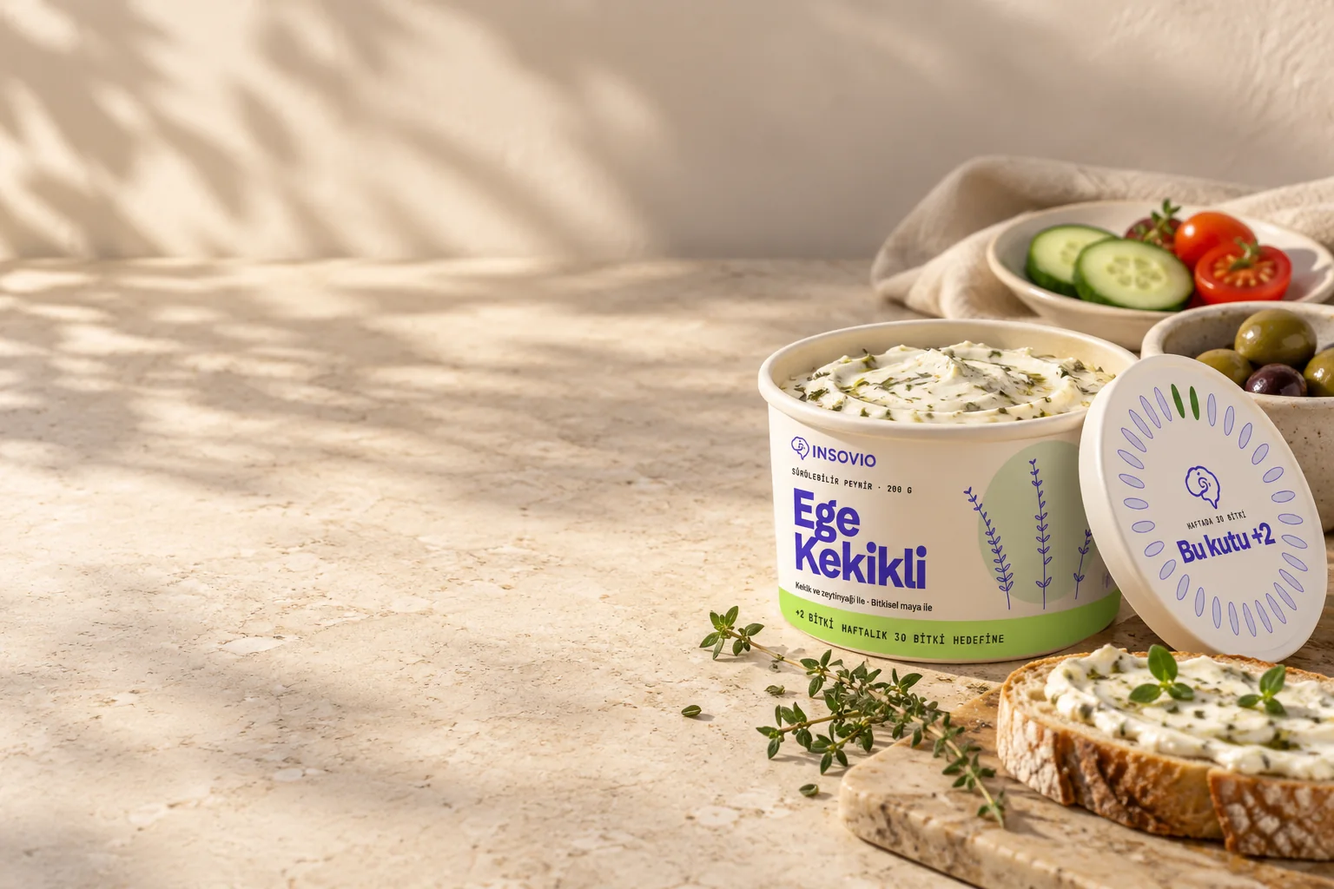
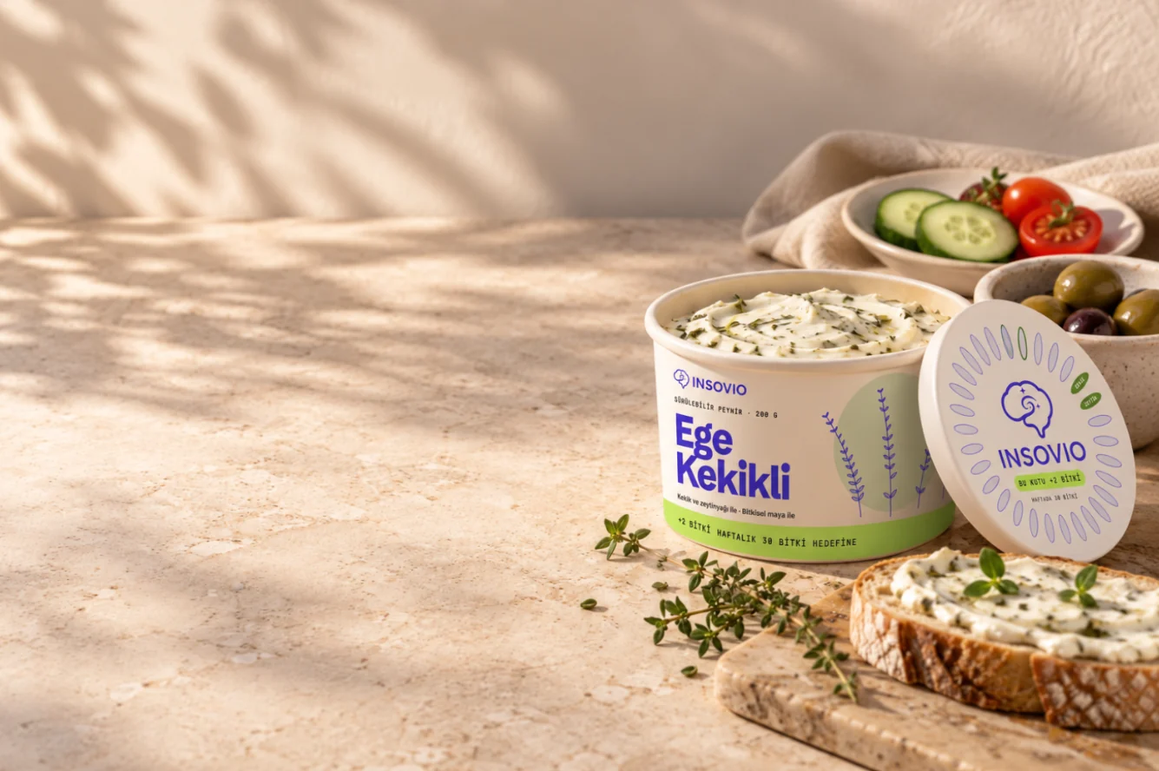
Bitki çarkı bölümü eklendi, giriş görselinde yeni kapak
Claude-Session: https://claude.ai/code/session_01Wy1JEM3Zr18T6Qt79KhScu

diff --git a/index.html b/index.html
@@ -344,6 +344,18 @@ p { margin: 0; }
 @media (max-width: 760px) { .inspo { grid-template-columns: 1fr; } }
 
 /* Process */
+.series-wrap { padding-block: clamp(56px, 7vw, 96px) 0; }
+.series { display: grid; grid-template-columns: minmax(0, 1fr) minmax(0, 1fr); gap: clamp(32px, 5vw, 64px); align-items: center; }
+.series-copy { display: grid; gap: 14px; }
+.series-copy h3 { font-size: var(--s-xl); font-weight: 800; letter-spacing: -.03em; line-height: 1; }
+.series-copy p { color: var(--muted); max-width: 52ch; }
+.series-note { font-size: var(--s-sm); }
+.series-wheel { position: relative; width: 100%; max-width: 520px; aspect-ratio: 1 / 1; justify-self: center; }
+.series-svg, .series-svg svg { width: 100%; height: 100%; display: block; }
+.series-center { position: absolute; inset: 0; display: grid; place-content: center; justify-items: center; text-align: center; pointer-events: none; }
+.series-center b { font-size: clamp(3rem, 2rem + 4vw, 5.5rem); font-weight: 800; letter-spacing: -.04em; line-height: 1; color: var(--violet); }
+.series-center span { font: 500 .75rem/1.3 var(--f-mono); letter-spacing: .1em; text-transform: uppercase; color: var(--muted); }
+@media (max-width: 880px) { .series { grid-template-columns: 1fr; } }
 .process-wrap { padding-block: clamp(56px, 7vw, 96px) 0; }
 .process-head { display: grid; gap: 8px; margin-bottom: 24px; }
 .process-head p { color: var(--muted); }
@@ -499,7 +511,7 @@ p { margin: 0; }
   <section class="hero">
     <div class="wrap">
       <div class="hero-card">
-        <img class="hero-bg" src="img/konsept-giris.webp" width="1536" height="1024" alt="Güneşli traverten tezgahta açık INSOVIO Ege Kekikli Sürülebilir Peynir kasesi, kapağı yanında; peynir sürülmüş ekmek, kekik, zeytin ve domates salatalık" data-i18n-attr="alt:alt.hero">
+        <img class="hero-bg" src="img/konsept-giris.webp" width="1335" height="888" alt="Güneşli traverten tezgahta açık INSOVIO Ege Kekikli Sürülebilir Peynir kasesi, kapağı yanında; peynir sürülmüş ekmek, kekik, zeytin ve domates salatalık" data-i18n-attr="alt:alt.hero">
         <span class="concept-tag" data-i18n="concept">Konsept görsel</span>
         <a class="promo" href="#etkinlik">
           <img src="img/etkinlik.webp" width="1007" height="941" alt="">
@@ -691,6 +703,20 @@ p { margin: 0; }
           <b>Avokado Dürüm</b>
           <a href="https://www.instagram.com/reel/DXUqoRvDTE2/" target="_blank" rel="noopener" data-i18n="ins.l">Videoyu Instagram'da izle →</a>
         </blockquote>
+      </div>
+    </div>
+    <div class="wrap series-wrap">
+      <div class="series">
+        <div class="series-copy">
+          <span class="eyebrow" data-i18n="se.e">Tüm seri · Bitki çarkı</span>
+          <h3 data-i18n="se.h">Her kutu çarkın bir parçası</h3>
+          <p data-i18n="se.p">Kapaklarımızdaki çarkın 30 yaprağının her biri hep aynı bitkiyi temsil ediyor. Her ürün kendi bitkilerinin yaprağını dolduruyor; peynirlerimiz ve lavaşlarımız bir araya geldiğinde haftalık 30 bitkinin tamamı karşılanıyor.</p>
+          <p class="series-note" data-i18n="se.n">Aynı türden bitkiler bir kez sayılır. Örneğin kekik hem Ege Kekikli'de hem Za'atar'da aynı yapraktır.</p>
+        </div>
+        <div class="series-wheel">
+          <div class="series-svg" data-i18n="se.svg"><svg role="img" aria-hidden="true" class="series-svg" viewBox="0 0 600 600"><ellipse cx="323.6" cy="75.2" rx="40" ry="13" transform="rotate(-84 323.6 75.2)" fill="#C9A227" stroke="#C9A227" stroke-width="0"/><text x="323.6" y="75.2" transform="rotate(-84 323.6 75.2)" text-anchor="middle" dominant-baseline="central" font-family="JetBrains Mono, ui-monospace, Menlo, monospace" font-weight="500" font-size="11" letter-spacing=".4" fill="#17123A">DEREOTU</text><ellipse cx="369.8" cy="85.1" rx="40" ry="13" transform="rotate(-72 369.8 85.1)" fill="#C9A227" stroke="#C9A227" stroke-width="0"/><text x="369.8" y="85.1" transform="rotate(-72 369.8 85.1)" text-anchor="middle" dominant-baseline="central" font-family="JetBrains Mono, ui-monospace, Menlo, monospace" font-weight="500" font-size="11" letter-spacing=".4" fill="#17123A">LİMON</text><ellipse cx="413.0" cy="104.3" rx="40" ry="13" transform="rotate(-60 413.0 104.3)" fill="#E58A3A" stroke="#E58A3A" stroke-width="0"/><text x="413.0" y="104.3" transform="rotate(-60 413.0 104.3)" text-anchor="middle" dominant-baseline="central" font-family="JetBrains Mono, ui-monospace, Menlo, monospace" font-weight="500" font-size="11" letter-spacing=".4" fill="#17123A">MERCİMEK</text><ellipse cx="451.2" cy="132.0" rx="40" ry="13" transform="rotate(-48 451.2 132.0)" fill="#E58A3A" stroke="#E58A3A" stroke-width="0"/><text x="451.2" y="132.0" transform="rotate(-48 451.2 132.0)" text-anchor="middle" dominant-baseline="central" font-family="JetBrains Mono, ui-monospace, Menlo, monospace" font-weight="500" font-size="11" letter-spacing=".4" fill="#17123A">KİMYON</text><ellipse cx="482.8" cy="167.2" rx="40" ry="13" transform="rotate(-36 482.8 167.2)" fill="#6E8B3D" stroke="#6E8B3D" stroke-width="0"/><text x="482.8" y="167.2" transform="rotate(-36 482.8 167.2)" text-anchor="middle" dominant-baseline="central" font-family="JetBrains Mono, ui-monospace, Menlo, monospace" font-weight="500" font-size="11" letter-spacing=".4" fill="#FFFFFF">KEKİK</text><ellipse cx="506.5" cy="208.1" rx="40" ry="13" transform="rotate(-24 506.5 208.1)" fill="#6E8B3D" stroke="#6E8B3D" stroke-width="0"/><text x="506.5" y="208.1" transform="rotate(-24 506.5 208.1)" text-anchor="middle" dominant-baseline="central" font-family="JetBrains Mono, ui-monospace, Menlo, monospace" font-weight="500" font-size="11" letter-spacing=".4" fill="#FFFFFF">ZEYTİN</text><ellipse cx="521.1" cy="253.0" rx="40" ry="13" transform="rotate(-12 521.1 253.0)" fill="#B5523B" stroke="#B5523B" stroke-width="0"/><text x="521.1" y="253.0" transform="rotate(-12 521.1 253.0)" text-anchor="middle" dominant-baseline="central" font-family="JetBrains Mono, ui-monospace, Menlo, monospace" font-weight="500" font-size="11" letter-spacing=".4" fill="#FFFFFF">SUMAK</text><ellipse cx="526.0" cy="300.0" rx="40" ry="13" transform="rotate(0 526.0 300.0)" fill="#B5523B" stroke="#B5523B" stroke-width="0"/><text x="526.0" y="300.0" transform="rotate(0 526.0 300.0)" text-anchor="middle" dominant-baseline="central" font-family="JetBrains Mono, ui-monospace, Menlo, monospace" font-weight="500" font-size="11" letter-spacing=".4" fill="#FFFFFF">SUSAM</text><ellipse cx="521.1" cy="347.0" rx="40" ry="13" transform="rotate(12 521.1 347.0)" fill="#D2483A" stroke="#D2483A" stroke-width="0"/><text x="521.1" y="347.0" transform="rotate(12 521.1 347.0)" text-anchor="middle" dominant-baseline="central" font-family="JetBrains Mono, ui-monospace, Menlo, monospace" font-weight="500" font-size="11" letter-spacing=".4" fill="#FFFFFF">DOMATES</text><ellipse cx="506.5" cy="391.9" rx="40" ry="13" transform="rotate(24 506.5 391.9)" fill="#D2483A" stroke="#D2483A" stroke-width="0"/><text x="506.5" y="391.9" transform="rotate(24 506.5 391.9)" text-anchor="middle" dominant-baseline="central" font-family="JetBrains Mono, ui-monospace, Menlo, monospace" font-weight="500" font-size="11" letter-spacing=".4" fill="#FFFFFF">FESLEĞEN</text><ellipse cx="482.8" cy="432.8" rx="40" ry="13" transform="rotate(36 482.8 432.8)" fill="#A83232" stroke="#A83232" stroke-width="0"/><text x="482.8" y="432.8" transform="rotate(36 482.8 432.8)" text-anchor="middle" dominant-baseline="central" font-family="JetBrains Mono, ui-monospace, Menlo, monospace" font-weight="500" font-size="11" letter-spacing=".4" fill="#FFFFFF">İSOT</text><ellipse cx="451.2" cy="468.0" rx="40" ry="13" transform="rotate(48 451.2 468.0)" fill="#A83232" stroke="#A83232" stroke-width="0"/><text x="451.2" y="468.0" transform="rotate(48 451.2 468.0)" text-anchor="middle" dominant-baseline="central" font-family="JetBrains Mono, ui-monospace, Menlo, monospace" font-weight="500" font-size="11" letter-spacing=".4" fill="#FFFFFF">CEVİZ</text><ellipse cx="413.0" cy="495.7" rx="40" ry="13" transform="rotate(60 413.0 495.7)" fill="#8E86A8" stroke="#8E86A8" stroke-width="0"/><text x="413.0" y="495.7" transform="rotate(60 413.0 495.7)" text-anchor="middle" dominant-baseline="central" font-family="JetBrains Mono, ui-monospace, Menlo, monospace" font-weight="500" font-size="11" letter-spacing=".4" fill="#17123A">ÇÖREK OTU</text><ellipse cx="369.8" cy="514.9" rx="40" ry="13" transform="rotate(72 369.8 514.9)" fill="#8E86A8" stroke="#8E86A8" stroke-width="0"/><text x="369.8" y="514.9" transform="rotate(72 369.8 514.9)" text-anchor="middle" dominant-baseline="central" font-family="JetBrains Mono, ui-monospace, Menlo, monospace" font-weight="500" font-size="11" letter-spacing=".4" fill="#17123A">TAZE SOĞAN</text><ellipse cx="323.6" cy="524.8" rx="40" ry="13" transform="rotate(84 323.6 524.8)" fill="#4E8F3A" stroke="#4E8F3A" stroke-width="0"/><text x="323.6" y="524.8" transform="rotate(84 323.6 524.8)" text-anchor="middle" dominant-baseline="central" font-family="JetBrains Mono, ui-monospace, Menlo, monospace" font-weight="500" font-size="11" letter-spacing=".4" fill="#FFFFFF">NOHUT</text><ellipse cx="276.4" cy="524.8" rx="40" ry="13" transform="rotate(96 276.4 524.8)" fill="#4E8F3A" stroke="#4E8F3A" stroke-width="0"/><text x="276.4" y="524.8" transform="rotate(276 276.4 524.8)" text-anchor="middle" dominant-baseline="central" font-family="JetBrains Mono, ui-monospace, Menlo, monospace" font-weight="500" font-size="11" letter-spacing=".4" fill="#FFFFFF">ISPANAK</text><ellipse cx="230.2" cy="514.9" rx="40" ry="13" transform="rotate(108 230.2 514.9)" fill="#9B2D5C" stroke="#9B2D5C" stroke-width="0"/><text x="230.2" y="514.9" transform="rotate(288 230.2 514.9)" text-anchor="middle" dominant-baseline="central" font-family="JetBrains Mono, ui-monospace, Menlo, monospace" font-weight="500" font-size="11" letter-spacing=".4" fill="#FFFFFF">PANCAR</text><ellipse cx="187.0" cy="495.7" rx="40" ry="13" transform="rotate(120 187.0 495.7)" fill="#5E8C31" stroke="#5E8C31" stroke-width="0"/><text x="187.0" y="495.7" transform="rotate(300 187.0 495.7)" text-anchor="middle" dominant-baseline="central" font-family="JetBrains Mono, ui-monospace, Menlo, monospace" font-weight="500" font-size="11" letter-spacing=".4" fill="#FFFFFF">AVOKADO</text><ellipse cx="148.8" cy="468.0" rx="40" ry="13" transform="rotate(132 148.8 468.0)" fill="#7FAF5A" stroke="#7FAF5A" stroke-width="0"/><text x="148.8" y="468.0" transform="rotate(312 148.8 468.0)" text-anchor="middle" dominant-baseline="central" font-family="JetBrains Mono, ui-monospace, Menlo, monospace" font-weight="500" font-size="11" letter-spacing=".4" fill="#17123A">KABAK</text><ellipse cx="117.2" cy="432.8" rx="40" ry="13" transform="rotate(144 117.2 432.8)" fill="#7FAF5A" stroke="#7FAF5A" stroke-width="0"/><text x="117.2" y="432.8" transform="rotate(324 117.2 432.8)" text-anchor="middle" dominant-baseline="central" font-family="JetBrains Mono, ui-monospace, Menlo, monospace" font-weight="500" font-size="11" letter-spacing=".4" fill="#17123A">KARABİBER</text><ellipse cx="93.5" cy="391.9" rx="40" ry="13" transform="rotate(156 93.5 391.9)" fill="#8A6A3B" stroke="#8A6A3B" stroke-width="0"/><text x="93.5" y="391.9" transform="rotate(336 93.5 391.9)" text-anchor="middle" dominant-baseline="central" font-family="JetBrains Mono, ui-monospace, Menlo, monospace" font-weight="500" font-size="11" letter-spacing=".4" fill="#FFFFFF">KARABUĞDAY</text><ellipse cx="78.9" cy="347.0" rx="40" ry="13" transform="rotate(168 78.9 347.0)" fill="#3E9A6B" stroke="#3E9A6B" stroke-width="0"/><text x="78.9" y="347.0" transform="rotate(348 78.9 347.0)" text-anchor="middle" dominant-baseline="central" font-family="JetBrains Mono, ui-monospace, Menlo, monospace" font-weight="500" font-size="11" letter-spacing=".4" fill="#FFFFFF">NANE</text><ellipse cx="74.0" cy="300.0" rx="40" ry="13" transform="rotate(180 74.0 300.0)" fill="#3E9A6B" stroke="#3E9A6B" stroke-width="0"/><text x="74.0" y="300.0" transform="rotate(360 74.0 300.0)" text-anchor="middle" dominant-baseline="central" font-family="JetBrains Mono, ui-monospace, Menlo, monospace" font-weight="500" font-size="11" letter-spacing=".4" fill="#FFFFFF">MAYDANOZ</text><ellipse cx="78.9" cy="253.0" rx="40" ry="13" transform="rotate(192 78.9 253.0)" fill="#3E9A6B" stroke="#3E9A6B" stroke-width="0"/><text x="78.9" y="253.0" transform="rotate(372 78.9 253.0)" text-anchor="middle" dominant-baseline="central" font-family="JetBrains Mono, ui-monospace, Menlo, monospace" font-weight="500" font-size="11" letter-spacing=".4" fill="#FFFFFF">SARIMSAK</text><ellipse cx="93.5" cy="208.1" rx="40" ry="13" transform="rotate(204 93.5 208.1)" fill="#7A3E5C" stroke="#7A3E5C" stroke-width="0"/><text x="93.5" y="208.1" transform="rotate(384 93.5 208.1)" text-anchor="middle" dominant-baseline="central" font-family="JetBrains Mono, ui-monospace, Menlo, monospace" font-weight="500" font-size="11" letter-spacing=".4" fill="#FFFFFF">İNCİR</text><ellipse cx="117.2" cy="167.2" rx="40" ry="13" transform="rotate(216 117.2 167.2)" fill="#5B7A5A" stroke="#5B7A5A" stroke-width="0"/><text x="117.2" y="167.2" transform="rotate(396 117.2 167.2)" text-anchor="middle" dominant-baseline="central" font-family="JetBrains Mono, ui-monospace, Menlo, monospace" font-weight="500" font-size="11" letter-spacing=".4" fill="#FFFFFF">BİBERİYE</text><ellipse cx="148.8" cy="132.0" rx="40" ry="13" transform="rotate(228 148.8 132.0)" fill="#8A6A3B" stroke="#8A6A3B" stroke-width="0"/><text x="148.8" y="132.0" transform="rotate(408 148.8 132.0)" text-anchor="middle" dominant-baseline="central" font-family="JetBrains Mono, ui-monospace, Menlo, monospace" font-weight="500" font-size="11" letter-spacing=".4" fill="#FFFFFF">KETEN</text><ellipse cx="187.0" cy="104.3" rx="40" ry="13" transform="rotate(240 187.0 104.3)" fill="#8A6A3B" stroke="#8A6A3B" stroke-width="0"/><text x="187.0" y="104.3" transform="rotate(420 187.0 104.3)" text-anchor="middle" dominant-baseline="central" font-family="JetBrains Mono, ui-monospace, Menlo, monospace" font-weight="500" font-size="11" letter-spacing=".4" fill="#FFFFFF">CHİA</text><ellipse cx="230.2" cy="85.1" rx="40" ry="13" transform="rotate(252 230.2 85.1)" fill="#8A6A3B" stroke="#8A6A3B" stroke-width="0"/><text x="230.2" y="85.1" transform="rotate(432 230.2 85.1)" text-anchor="middle" dominant-baseline="central" font-family="JetBrains Mono, ui-monospace, Menlo, monospace" font-weight="500" font-size="9.459999999999999" letter-spacing=".4" fill="#FFFFFF">AYÇEKİRDEĞİ</text><ellipse cx="276.4" cy="75.2" rx="40" ry="13" transform="rotate(264 276.4 75.2)" fill="#8A6A3B" stroke="#8A6A3B" stroke-width="0"/><text x="276.4" y="75.2" transform="rotate(444 276.4 75.2)" text-anchor="middle" dominant-baseline="central" font-family="JetBrains Mono, ui-monospace, Menlo, monospace" font-weight="500" font-size="11" letter-spacing=".4" fill="#FFFFFF">HAŞHAŞ</text></svg></div>
+          <div class="series-center"><b>30</b><span data-i18n="se.c">farklı bitki</span></div>
+        </div>
       </div>
     </div>
     <div class="wrap process-wrap">
@@ -919,6 +945,12 @@ p { margin: 0; }
     'w1.a': 'Shelves full of supplements', 'w1.b': 'We make everyday foods functional.',
     'w2.a': 'Healthy routines are easy to drop', 'w2.b': 'Products you enjoy, with no prep needed.',
     'w3.a': 'Variety is hard to track', 'w3.b': 'See it yourself with the weekly plant counter.',
+    'se.e': 'Whole range · Plant wheel',
+    'se.h': 'Every tub is part of the wheel',
+    'se.p': 'Each of the 30 petals on our lids always stands for the same plant. Every product fills in the petals of its own plants; together, our spreadable cheeses and wraps cover all 30 plants for the week.',
+    'se.n': 'Plants of the same species count once. Thyme, for example, is the same petal in Aegean Thyme and in Za\'atar.',
+    'se.c': 'different plants',
+    'se.svg': "<svg role=\"img\" aria-hidden=\"true\" class=\"series-svg\" viewBox=\"0 0 600 600\"><ellipse cx=\"323.6\" cy=\"75.2\" rx=\"40\" ry=\"13\" transform=\"rotate(-84 323.6 75.2)\" fill=\"#C9A227\" stroke=\"#C9A227\" stroke-width=\"0\"/><text x=\"323.6\" y=\"75.2\" transform=\"rotate(-84 323.6 75.2)\" text-anchor=\"middle\" dominant-baseline=\"central\" font-family=\"JetBrains Mono, ui-monospace, Menlo, monospace\" font-weight=\"500\" font-size=\"11\" letter-spacing=\".4\" fill=\"#17123A\">DILL</text><ellipse cx=\"369.8\" cy=\"85.1\" rx=\"40\" ry=\"13\" transform=\"rotate(-72 369.8 85.1)\" fill=\"#C9A227\" stroke=\"#C9A227\" stroke-width=\"0\"/><text x=\"369.8\" y=\"85.1\" transform=\"rotate(-72 369.8 85.1)\" text-anchor=\"middle\" dominant-baseline=\"central\" font-family=\"JetBrains Mono, ui-monospace, Menlo, monospace\" font-weight=\"500\" font-size=\"11\" letter-spacing=\".4\" fill=\"#17123A\">LEMON</text><ellipse cx=\"413.0\" cy=\"104.3\" rx=\"40\" ry=\"13\" transform=\"rotate(-60 413.0 104.3)\" fill=\"#E58A3A\" stroke=\"#E58A3A\" stroke-width=\"0\"/><text x=\"413.0\" y=\"104.3\" transform=\"rotate(-60 413.0 104.3)\" text-anchor=\"middle\" dominant-baseline=\"central\" font-family=\"JetBrains Mono, ui-monospace, Menlo, monospace\" font-weight=\"500\" font-size=\"11\" letter-spacing=\".4\" fill=\"#17123A\">LENTIL</text><ellipse cx=\"451.2\" cy=\"132.0\" rx=\"40\" ry=\"13\" transform=\"rotate(-48 451.2 132.0)\" fill=\"#E58A3A\" stroke=\"#E58A3A\" stroke-width=\"0\"/><text x=\"451.2\" y=\"132.0\" transform=\"rotate(-48 451.2 132.0)\" text-anchor=\"middle\" dominant-baseline=\"central\" font-family=\"JetBrains Mono, ui-monospace, Menlo, monospace\" font-weight=\"500\" font-size=\"11\" letter-spacing=\".4\" fill=\"#17123A\">CUMIN</text><ellipse cx=\"482.8\" cy=\"167.2\" rx=\"40\" ry=\"13\" transform=\"rotate(-36 482.8 167.2)\" fill=\"#6E8B3D\" stroke=\"#6E8B3D\" stroke-width=\"0\"/><text x=\"482.8\" y=\"167.2\" transform=\"rotate(-36 482.8 167.2)\" text-anchor=\"middle\" dominant-baseline=\"central\" font-family=\"JetBrains Mono, ui-monospace, Menlo, monospace\" font-weight=\"500\" font-size=\"11\" letter-spacing=\".4\" fill=\"#FFFFFF\">THYME</text><ellipse cx=\"506.5\" cy=\"208.1\" rx=\"40\" ry=\"13\" transform=\"rotate(-24 506.5 208.1)\" fill=\"#6E8B3D\" stroke=\"#6E8B3D\" stroke-width=\"0\"/><text x=\"506.5\" y=\"208.1\" transform=\"rotate(-24 506.5 208.1)\" text-anchor=\"middle\" dominant-baseline=\"central\" font-family=\"JetBrains Mono, ui-monospace, Menlo, monospace\" font-weight=\"500\" font-size=\"11\" letter-spacing=\".4\" fill=\"#FFFFFF\">OLIVE</text><ellipse cx=\"521.1\" cy=\"253.0\" rx=\"40\" ry=\"13\" transform=\"rotate(-12 521.1 253.0)\" fill=\"#B5523B\" stroke=\"#B5523B\" stroke-width=\"0\"/><text x=\"521.1\" y=\"253.0\" transform=\"rotate(-12 521.1 253.0)\" text-anchor=\"middle\" dominant-baseline=\"central\" font-family=\"JetBrains Mono, ui-monospace, Menlo, monospace\" font-weight=\"500\" font-size=\"11\" letter-spacing=\".4\" fill=\"#FFFFFF\">SUMAC</text><ellipse cx=\"526.0\" cy=\"300.0\" rx=\"40\" ry=\"13\" transform=\"rotate(0 526.0 300.0)\" fill=\"#B5523B\" stroke=\"#B5523B\" stroke-width=\"0\"/><text x=\"526.0\" y=\"300.0\" transform=\"rotate(0 526.0 300.0)\" text-anchor=\"middle\" dominant-baseline=\"central\" font-family=\"JetBrains Mono, ui-monospace, Menlo, monospace\" font-weight=\"500\" font-size=\"11\" letter-spacing=\".4\" fill=\"#FFFFFF\">SESAME</text><ellipse cx=\"521.1\" cy=\"347.0\" rx=\"40\" ry=\"13\" transform=\"rotate(12 521.1 347.0)\" fill=\"#D2483A\" stroke=\"#D2483A\" stroke-width=\"0\"/><text x=\"521.1\" y=\"347.0\" transform=\"rotate(12 521.1 347.0)\" text-anchor=\"middle\" dominant-baseline=\"central\" font-family=\"JetBrains Mono, ui-monospace, Menlo, monospace\" font-weight=\"500\" font-size=\"11\" letter-spacing=\".4\" fill=\"#FFFFFF\">TOMATO</text><ellipse cx=\"506.5\" cy=\"391.9\" rx=\"40\" ry=\"13\" transform=\"rotate(24 506.5 391.9)\" fill=\"#D2483A\" stroke=\"#D2483A\" stroke-width=\"0\"/><text x=\"506.5\" y=\"391.9\" transform=\"rotate(24 506.5 391.9)\" text-anchor=\"middle\" dominant-baseline=\"central\" font-family=\"JetBrains Mono, ui-monospace, Menlo, monospace\" font-weight=\"500\" font-size=\"11\" letter-spacing=\".4\" fill=\"#FFFFFF\">BASIL</text><ellipse cx=\"482.8\" cy=\"432.8\" rx=\"40\" ry=\"13\" transform=\"rotate(36 482.8 432.8)\" fill=\"#A83232\" stroke=\"#A83232\" stroke-width=\"0\"/><text x=\"482.8\" y=\"432.8\" transform=\"rotate(36 482.8 432.8)\" text-anchor=\"middle\" dominant-baseline=\"central\" font-family=\"JetBrains Mono, ui-monospace, Menlo, monospace\" font-weight=\"500\" font-size=\"11\" letter-spacing=\".4\" fill=\"#FFFFFF\">ISOT</text><ellipse cx=\"451.2\" cy=\"468.0\" rx=\"40\" ry=\"13\" transform=\"rotate(48 451.2 468.0)\" fill=\"#A83232\" stroke=\"#A83232\" stroke-width=\"0\"/><text x=\"451.2\" y=\"468.0\" transform=\"rotate(48 451.2 468.0)\" text-anchor=\"middle\" dominant-baseline=\"central\" font-family=\"JetBrains Mono, ui-monospace, Menlo, monospace\" font-weight=\"500\" font-size=\"11\" letter-spacing=\".4\" fill=\"#FFFFFF\">WALNUT</text><ellipse cx=\"413.0\" cy=\"495.7\" rx=\"40\" ry=\"13\" transform=\"rotate(60 413.0 495.7)\" fill=\"#8E86A8\" stroke=\"#8E86A8\" stroke-width=\"0\"/><text x=\"413.0\" y=\"495.7\" transform=\"rotate(60 413.0 495.7)\" text-anchor=\"middle\" dominant-baseline=\"central\" font-family=\"JetBrains Mono, ui-monospace, Menlo, monospace\" font-weight=\"500\" font-size=\"11\" letter-spacing=\".4\" fill=\"#17123A\">NIGELLA</text><ellipse cx=\"369.8\" cy=\"514.9\" rx=\"40\" ry=\"13\" transform=\"rotate(72 369.8 514.9)\" fill=\"#8E86A8\" stroke=\"#8E86A8\" stroke-width=\"0\"/><text x=\"369.8\" y=\"514.9\" transform=\"rotate(72 369.8 514.9)\" text-anchor=\"middle\" dominant-baseline=\"central\" font-family=\"JetBrains Mono, ui-monospace, Menlo, monospace\" font-weight=\"500\" font-size=\"11\" letter-spacing=\".4\" fill=\"#17123A\">SCALLION</text><ellipse cx=\"323.6\" cy=\"524.8\" rx=\"40\" ry=\"13\" transform=\"rotate(84 323.6 524.8)\" fill=\"#4E8F3A\" stroke=\"#4E8F3A\" stroke-width=\"0\"/><text x=\"323.6\" y=\"524.8\" transform=\"rotate(84 323.6 524.8)\" text-anchor=\"middle\" dominant-baseline=\"central\" font-family=\"JetBrains Mono, ui-monospace, Menlo, monospace\" font-weight=\"500\" font-size=\"11\" letter-spacing=\".4\" fill=\"#FFFFFF\">CHICKPEA</text><ellipse cx=\"276.4\" cy=\"524.8\" rx=\"40\" ry=\"13\" transform=\"rotate(96 276.4 524.8)\" fill=\"#4E8F3A\" stroke=\"#4E8F3A\" stroke-width=\"0\"/><text x=\"276.4\" y=\"524.8\" transform=\"rotate(276 276.4 524.8)\" text-anchor=\"middle\" dominant-baseline=\"central\" font-family=\"JetBrains Mono, ui-monospace, Menlo, monospace\" font-weight=\"500\" font-size=\"11\" letter-spacing=\".4\" fill=\"#FFFFFF\">SPINACH</text><ellipse cx=\"230.2\" cy=\"514.9\" rx=\"40\" ry=\"13\" transform=\"rotate(108 230.2 514.9)\" fill=\"#9B2D5C\" stroke=\"#9B2D5C\" stroke-width=\"0\"/><text x=\"230.2\" y=\"514.9\" transform=\"rotate(288 230.2 514.9)\" text-anchor=\"middle\" dominant-baseline=\"central\" font-family=\"JetBrains Mono, ui-monospace, Menlo, monospace\" font-weight=\"500\" font-size=\"11\" letter-spacing=\".4\" fill=\"#FFFFFF\">BEET</text><ellipse cx=\"187.0\" cy=\"495.7\" rx=\"40\" ry=\"13\" transform=\"rotate(120 187.0 495.7)\" fill=\"#5E8C31\" stroke=\"#5E8C31\" stroke-width=\"0\"/><text x=\"187.0\" y=\"495.7\" transform=\"rotate(300 187.0 495.7)\" text-anchor=\"middle\" dominant-baseline=\"central\" font-family=\"JetBrains Mono, ui-monospace, Menlo, monospace\" font-weight=\"500\" font-size=\"11\" letter-spacing=\".4\" fill=\"#FFFFFF\">AVOCADO</text><ellipse cx=\"148.8\" cy=\"468.0\" rx=\"40\" ry=\"13\" transform=\"rotate(132 148.8 468.0)\" fill=\"#7FAF5A\" stroke=\"#7FAF5A\" stroke-width=\"0\"/><text x=\"148.8\" y=\"468.0\" transform=\"rotate(312 148.8 468.0)\" text-anchor=\"middle\" dominant-baseline=\"central\" font-family=\"JetBrains Mono, ui-monospace, Menlo, monospace\" font-weight=\"500\" font-size=\"11\" letter-spacing=\".4\" fill=\"#17123A\">ZUCCHINI</text><ellipse cx=\"117.2\" cy=\"432.8\" rx=\"40\" ry=\"13\" transform=\"rotate(144 117.2 432.8)\" fill=\"#7FAF5A\" stroke=\"#7FAF5A\" stroke-width=\"0\"/><text x=\"117.2\" y=\"432.8\" transform=\"rotate(324 117.2 432.8)\" text-anchor=\"middle\" dominant-baseline=\"central\" font-family=\"JetBrains Mono, ui-monospace, Menlo, monospace\" font-weight=\"500\" font-size=\"11\" letter-spacing=\".4\" fill=\"#17123A\">PEPPER</text><ellipse cx=\"93.5\" cy=\"391.9\" rx=\"40\" ry=\"13\" transform=\"rotate(156 93.5 391.9)\" fill=\"#8A6A3B\" stroke=\"#8A6A3B\" stroke-width=\"0\"/><text x=\"93.5\" y=\"391.9\" transform=\"rotate(336 93.5 391.9)\" text-anchor=\"middle\" dominant-baseline=\"central\" font-family=\"JetBrains Mono, ui-monospace, Menlo, monospace\" font-weight=\"500\" font-size=\"11\" letter-spacing=\".4\" fill=\"#FFFFFF\">BUCKWHEAT</text><ellipse cx=\"78.9\" cy=\"347.0\" rx=\"40\" ry=\"13\" transform=\"rotate(168 78.9 347.0)\" fill=\"#3E9A6B\" stroke=\"#3E9A6B\" stroke-width=\"0\"/><text x=\"78.9\" y=\"347.0\" transform=\"rotate(348 78.9 347.0)\" text-anchor=\"middle\" dominant-baseline=\"central\" font-family=\"JetBrains Mono, ui-monospace, Menlo, monospace\" font-weight=\"500\" font-size=\"11\" letter-spacing=\".4\" fill=\"#FFFFFF\">MINT</text><ellipse cx=\"74.0\" cy=\"300.0\" rx=\"40\" ry=\"13\" transform=\"rotate(180 74.0 300.0)\" fill=\"#3E9A6B\" stroke=\"#3E9A6B\" stroke-width=\"0\"/><text x=\"74.0\" y=\"300.0\" transform=\"rotate(360 74.0 300.0)\" text-anchor=\"middle\" dominant-baseline=\"central\" font-family=\"JetBrains Mono, ui-monospace, Menlo, monospace\" font-weight=\"500\" font-size=\"11\" letter-spacing=\".4\" fill=\"#FFFFFF\">PARSLEY</text><ellipse cx=\"78.9\" cy=\"253.0\" rx=\"40\" ry=\"13\" transform=\"rotate(192 78.9 253.0)\" fill=\"#3E9A6B\" stroke=\"#3E9A6B\" stroke-width=\"0\"/><text x=\"78.9\" y=\"253.0\" transform=\"rotate(372 78.9 253.0)\" text-anchor=\"middle\" dominant-baseline=\"central\" font-family=\"JetBrains Mono, ui-monospace, Menlo, monospace\" font-weight=\"500\" font-size=\"11\" letter-spacing=\".4\" fill=\"#FFFFFF\">GARLIC</text><ellipse cx=\"93.5\" cy=\"208.1\" rx=\"40\" ry=\"13\" transform=\"rotate(204 93.5 208.1)\" fill=\"#7A3E5C\" stroke=\"#7A3E5C\" stroke-width=\"0\"/><text x=\"93.5\" y=\"208.1\" transform=\"rotate(384 93.5 208.1)\" text-anchor=\"middle\" dominant-baseline=\"central\" font-family=\"JetBrains Mono, ui-monospace, Menlo, monospace\" font-weight=\"500\" font-size=\"11\" letter-spacing=\".4\" fill=\"#FFFFFF\">FIG</text><ellipse cx=\"117.2\" cy=\"167.2\" rx=\"40\" ry=\"13\" transform=\"rotate(216 117.2 167.2)\" fill=\"#5B7A5A\" stroke=\"#5B7A5A\" stroke-width=\"0\"/><text x=\"117.2\" y=\"167.2\" transform=\"rotate(396 117.2 167.2)\" text-anchor=\"middle\" dominant-baseline=\"central\" font-family=\"JetBrains Mono, ui-monospace, Menlo, monospace\" font-weight=\"500\" font-size=\"11\" letter-spacing=\".4\" fill=\"#FFFFFF\">ROSEMARY</text><ellipse cx=\"148.8\" cy=\"132.0\" rx=\"40\" ry=\"13\" transform=\"rotate(228 148.8 132.0)\" fill=\"#8A6A3B\" stroke=\"#8A6A3B\" stroke-width=\"0\"/><text x=\"148.8\" y=\"132.0\" transform=\"rotate(408 148.8 132.0)\" text-anchor=\"middle\" dominant-baseline=\"central\" font-family=\"JetBrains Mono, ui-monospace, Menlo, monospace\" font-weight=\"500\" font-size=\"11\" letter-spacing=\".4\" fill=\"#FFFFFF\">FLAXSEED</text><ellipse cx=\"187.0\" cy=\"104.3\" rx=\"40\" ry=\"13\" transform=\"rotate(240 187.0 104.3)\" fill=\"#8A6A3B\" stroke=\"#8A6A3B\" stroke-width=\"0\"/><text x=\"187.0\" y=\"104.3\" transform=\"rotate(420 187.0 104.3)\" text-anchor=\"middle\" dominant-baseline=\"central\" font-family=\"JetBrains Mono, ui-monospace, Menlo, monospace\" font-weight=\"500\" font-size=\"11\" letter-spacing=\".4\" fill=\"#FFFFFF\">CHIA</text><ellipse cx=\"230.2\" cy=\"85.1\" rx=\"40\" ry=\"13\" transform=\"rotate(252 230.2 85.1)\" fill=\"#8A6A3B\" stroke=\"#8A6A3B\" stroke-width=\"0\"/><text x=\"230.2\" y=\"85.1\" transform=\"rotate(432 230.2 85.1)\" text-anchor=\"middle\" dominant-baseline=\"central\" font-family=\"JetBrains Mono, ui-monospace, Menlo, monospace\" font-weight=\"500\" font-size=\"11\" letter-spacing=\".4\" fill=\"#FFFFFF\">SUNFLOWER</text><ellipse cx=\"276.4\" cy=\"75.2\" rx=\"40\" ry=\"13\" transform=\"rotate(264 276.4 75.2)\" fill=\"#8A6A3B\" stroke=\"#8A6A3B\" stroke-width=\"0\"/><text x=\"276.4\" y=\"75.2\" transform=\"rotate(444 276.4 75.2)\" text-anchor=\"middle\" dominant-baseline=\"central\" font-family=\"JetBrains Mono, ui-monospace, Menlo, monospace\" font-weight=\"500\" font-size=\"11\" letter-spacing=\".4\" fill=\"#FFFFFF\">POPPY</text></svg>",
     'concept': 'Concept image',
     'alt.flavors': 'Three INSOVIO spreadable cheese flavors: Aegean Thyme, Za\'atar, and Dill and Lemon',
     'alt.lavas': 'INSOVIO red lentil wraps in a paper sleeve with a round window, next to a bowl of red lentils and parsley',
